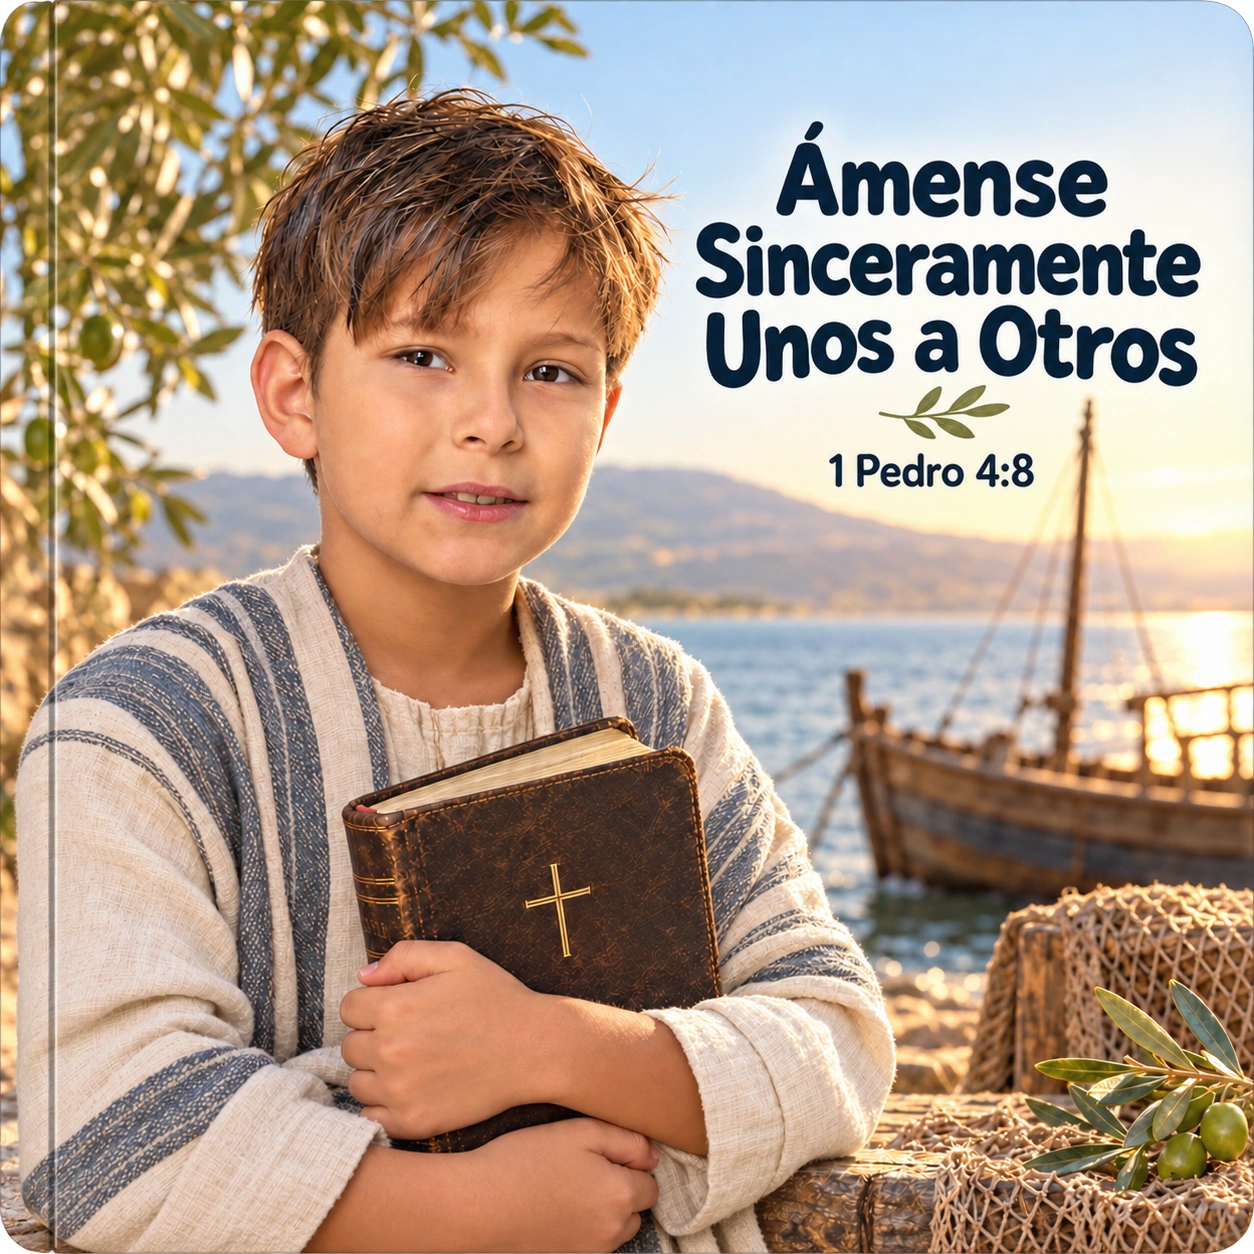
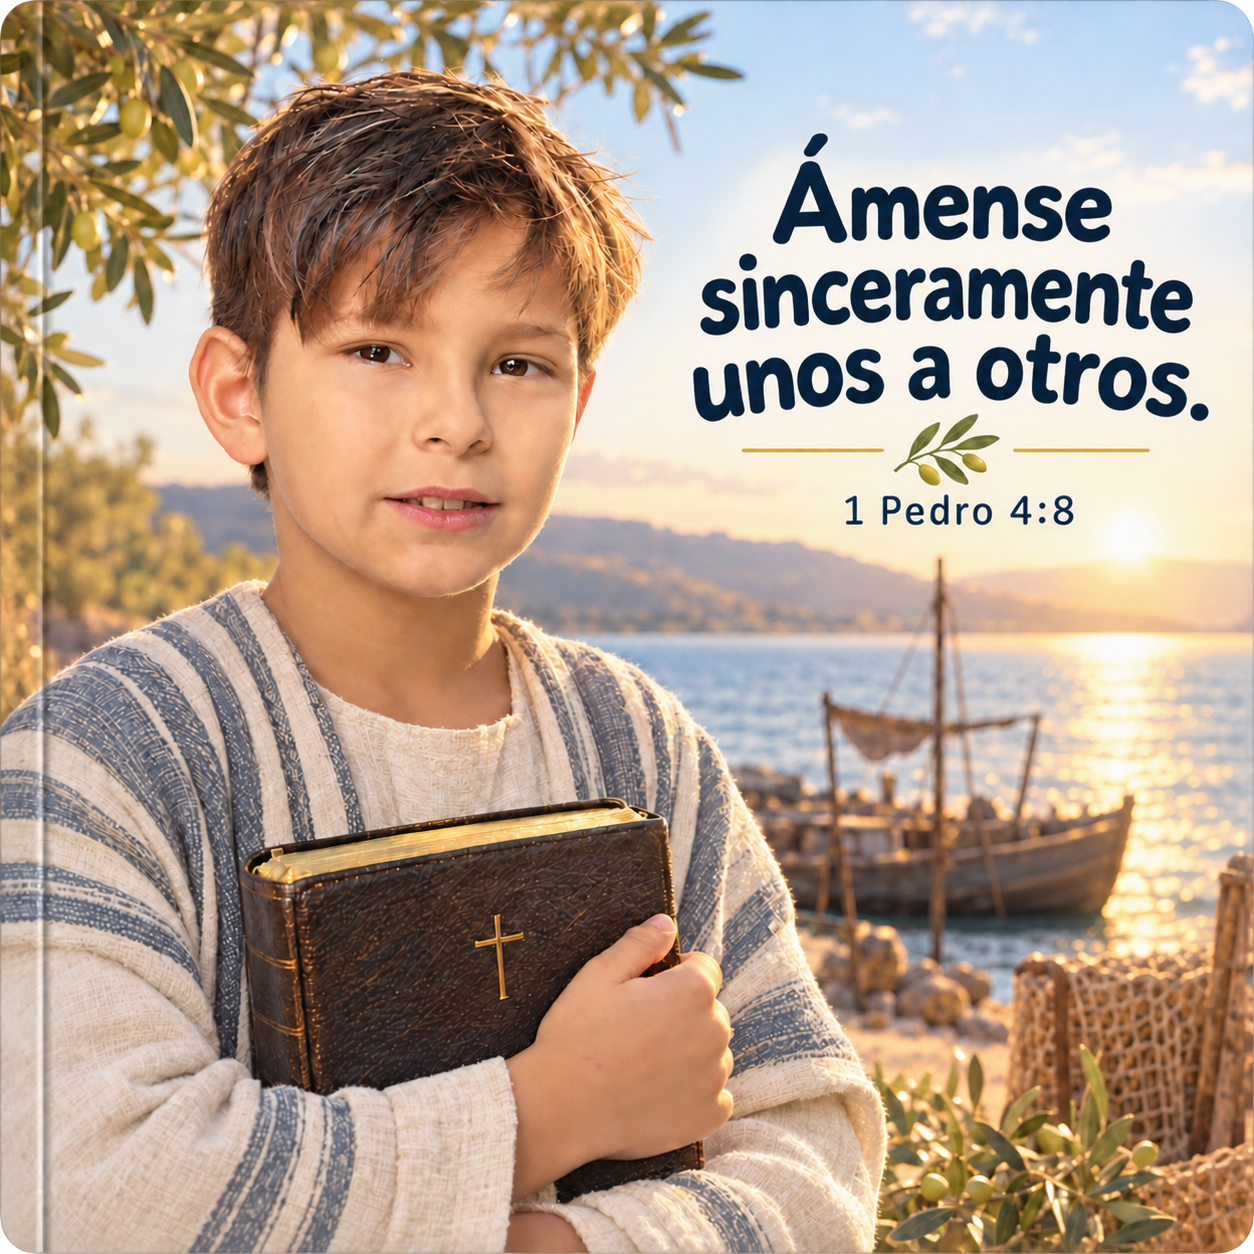
Align the 59-book catalog and localized preview scenes

diff --git a/apps/web/src/Landing.test.tsx b/apps/web/src/Landing.test.tsx
@@ -224,7 +224,7 @@ describe("Landing — catálogo", () => {
     expect(srcs.some((src) => src.includes(localizedExample("capa-nicolas-maefilho.jpg", "pt")))).toBe(false);
     expect(srcs.some((src) => src.includes(localizedExample("capa-matteo-aniversario.png", "pt")))).toBe(false);
     expect(srcs.some((src) => src.includes(localizedExample("capa-matteo-nas-nuvens.png", "pt")))).toBe(true);
-    expect(imgs).toHaveLength(53);
+    expect(imgs).toHaveLength(59);
     expect(srcs.some((src) => src.includes("capa-maos-motores"))).toBe(false);
     expect(srcs.some((src) => src.includes("capa-nanoaventuras"))).toBe(true);
     expect(srcs.some((src) => src.includes(localizedExample("capa-feliz-natal-familia.png", "pt")))).toBe(true);
@@ -252,8 +252,8 @@ describe("Landing — catálogo", () => {
     expect(within(cards[0]).getByText(/resistente e durável/i)).toBeInTheDocument();
     expect(within(cards[0]).getAllByRole("button", { name: "SOFT" })).toHaveLength(1);
     expect(within(cards[0]).getByText(/leve e flexível/i)).toBeInTheDocument();
-    expect(within(catalog).getAllByRole("button", { name: "HARD" })).toHaveLength(53);
-    expect(cards).toHaveLength(53);
+    expect(within(catalog).getAllByRole("button", { name: "HARD" })).toHaveLength(59);
+    expect(cards).toHaveLength(59);
     expect(cards.some((card) => card.textContent?.includes("Livro Teste"))).toBe(false);
     expect(within(catalog).getByText(/nano e suas aventuras/i)).toBeInTheDocument();
     expect(within(catalog).getByText(/feliz natal, família/i)).toBeInTheDocument();
@@ -272,7 +272,7 @@ describe("Landing — catálogo", () => {
     expect(within(cards[6]).getByText("Davi, o Craque do Brasil")).toBeInTheDocument();
     expect(within(cards[7]).getByText(/Martin, O Grande Goleiro/i)).toBeInTheDocument();
     expect(within(cards[8]).getByText(/Maria Jesus E A Disciplina No Hockey/i)).toBeInTheDocument();
-    expect(within(catalog).queryByText("Brilho Que Fascina, Alma De Bailarina")).not.toBeInTheDocument();
+    expect(within(catalog).queryByText("Brilho Que Fascina, Alma De Bailarina")).toBeInTheDocument();
     expect(within(cards[cards.length - 3]).getByText("Pequeno Construtor, Grande Empreendedor")).toBeInTheDocument();
     expect(within(cards[cards.length - 2]).getByText("Meu Herói Favorito, O Bombeiro")).toBeInTheDocument();
     expect(within(cards[cards.length - 1]).getByText("Meu Herói Favorito, O Policial")).toBeInTheDocument();
@@ -408,7 +408,7 @@ describe("Landing — catálogo", () => {
     await screen.findByTestId("landing-hero-title");
 
     const personalize = screen.getAllByTestId("landing-personalize");
-    expect(personalize).toHaveLength(53);
+    expect(personalize).toHaveLength(59);
     expect(screen.queryAllByTestId("catalog-model-unavailable")).toHaveLength(0);
     const first = studioTarget(personalize[personalize.length - 3].getAttribute("href"));
     expect(first).toContain("tema=adventure");

diff --git a/apps/web/src/Landing.tsx b/apps/web/src/Landing.tsx
@@ -693,14 +693,8 @@ const CATALOG_THEMES = [
   "casamento",
   "sport",
 ];
-/** Janela da vitrine. Era 15; desceu 1 quando o Bruno saiu do meio da lista. */
-const CATALOG_LIMIT = 14;
 /** Fora do site. O índice permanece no catálogo para não deslocar /livro dos demais. */
 const HIDDEN_BOOK_INDEXES = new Set([3, 4, 13, 16, 17, 32, 48, 50, 58, 61]);
-/** Índices fora do catálogo realista: capas em desenho e o aniversário da Ester. */
-const CATALOG_CARTOON_INDEXES = new Set([1, 2, 3, 4, 13]);
-/** Livros novos em português, depois do limite dos 15 primeiros. */
-const CATALOG_NEW_INDEXES = new Set([19, 20, 21, 22, 23, 24, 25, 26, 27, 28, 29, 30, 31, 34, 35, 36, 37, 38, 39, 40, 41, 42, 43, 44, 45, 46, 47, 49, 50, 51, 52, 53, 54, 55, 56, 57, 58, 59, 60, 61, 62, 63, 64, 65, 66, 67, 68, 33]);
 /** Vitrine em linhas de 3: família, fé e esportes; depois capas da mesma família de cor. */
 const HOME_CATALOG_ORDER = [
   21, 30, 22,
@@ -727,8 +721,6 @@ const HOME_CATALOG_ORDER = [
 ];
 /** Última linha da vitrine: construtor, bombeiro e policial (antes era a primeira). */
 const HOME_CATALOG_LAST = [25, 26, 27];
-/** Fora da vitrine da página inicial (continua no catálogo e no menu): Brilho Que Fascina, Alma De Bailarina. */
-const HOME_VITRINE_HIDDEN = new Set([53]);
 const CATALOG_LEAD = [25, 26, 27, 28, 29, 30, 21, 20, 22, 31, 0, 33, 37, 38, 39, 40, 41, 42, 43, 44, 45, 46, 47, 49, 51, 55, 52, 53, 54, 56, 57, 58];
 type CatalogCoverChoice = "soft" | "hard";
 type CatalogSizeChoice = "M" | "P";
@@ -2941,7 +2933,7 @@ export function Landing({ variant = "photo" }: { variant?: "photo" | "cartoon" }
         .map((c, i) => ({ c, i }))
         .filter(({ i }) => !HIDDEN_BOOK_INDEXES.has(i) && (variant === "cartoon"
           ? Boolean(CARTOON_COVER[i]) && Boolean(catalogCoverFile(i, "pt", "cartoon"))
-          : !HOME_VITRINE_HIDDEN.has(i) && (CATALOG_NEW_INDEXES.has(i) || i < CATALOG_LIMIT) && !CATALOG_CARTOON_INDEXES.has(i) && !isCartoonOnlyCover(i) && Boolean(coverForLang(i, "pt"))))
+          : Boolean(catalogCoverFile(i, "pt", "photo"))))
         .sort((a, b) => {
           const rank = (i: number) => {
             const order = HOME_CATALOG_ORDER;

diff --git a/apps/web/e2e/cartoon-expansion.spec.ts b/apps/web/e2e/cartoon-expansion.spec.ts
@@ -31,7 +31,10 @@ for (const lang of ["pt", "en", "es"]) {
         await expect(gallery.getByRole("tab")).toHaveCount(3);
         for (const [position, role] of ["capa", "pagina", "foto"].entries()) {
           await gallery.getByRole("tab").nth(position).click();
-          await expect(image).toHaveAttribute("src", `/exemplos/${position === 0 ? "covers/" : ""}${style}-${role}-${slug}-v1-${lang}.webp`);
+          const expectedFile = index === 38 && style === "cartoon" && role === "foto" && lang === "es"
+            ? "cartoon-foto-amem-se-parity-es.png"
+            : `${position === 0 ? "covers/" : ""}${style}-${role}-${slug}-v1-${lang}.webp`;
+          await expect(image).toHaveAttribute("src", `/exemplos/${expectedFile}`);
           await image.evaluate(async el => { await (el as HTMLImageElement).decode(); await new Promise(requestAnimationFrame); });
           await expect.poll(() => image.evaluate(el => (el as HTMLImageElement).naturalWidth)).toBeGreaterThan(0);
           const ratio = await image.evaluate(el => (el as HTMLImageElement).naturalWidth / (el as HTMLImageElement).naturalHeight);

diff --git a/apps/web/e2e/locale-parity.spec.ts b/apps/web/e2e/locale-parity.spec.ts
@@ -16,7 +16,7 @@ for (const path of ["/", "/cartoon"]) {
       steps: await page.locator("#passo img").count(),
     });
     const pt = await read();
-    expect(pt.books).toHaveLength(path === "/" ? 53 : 59);
+    expect(pt.books).toHaveLength(59);
     expect(pt.hero).toBe(path === "/" ? 17 : 4);
     for (const lang of ["pt", "en", "es"]) {
       await page.getByTestId(`landing-lang-${lang}`).click();
@@ -42,9 +42,9 @@ for (const lang of ["pt", "en", "es"]) for (const width of [390, 1440]) {
     };
     const realistic = await readBooks("/");
     const cartoon = await readBooks("/cartoon");
-    const shared = new Set(realistic.filter(book => cartoon.includes(book)));
-    expect(shared.size).toBeGreaterThan(20);
-    expect(cartoon.filter(book => shared.has(book))).toEqual(realistic.filter(book => shared.has(book)));
+    expect(realistic).toHaveLength(59);
+    expect(new Set(realistic).size).toBe(59);
+    expect(cartoon).toEqual(realistic);
     expect(await page.evaluate(() => document.documentElement.scrollWidth <= innerWidth)).toBe(true);
   });
 }

diff --git a/apps/web/e2e/cover-sizes.spec.ts b/apps/web/e2e/cover-sizes.spec.ts
@@ -1,6 +1,6 @@
 import { expect, test } from "@playwright/test";
 
-for (const [route, count] of [["/", 53], ["/cartoon", 59], ["/catalogo", 59]] as const) {
+for (const [route, count] of [["/", 59], ["/cartoon", 59], ["/catalogo", 59]] as const) {
 for (const lang of ["pt", "en", "es"]) {
   test(`visible cover artwork fills the frame in ${lang} on ${route}`, async ({ page }) => {
     await page.addInitScript(value => localStorage.setItem("lang", value), lang);
@@ -58,7 +58,7 @@ for (const lang of ["pt", "en", "es"]) {
 }
 
 for (const width of [390, 1280]) {
-for (const [route, count] of [["/", 53], ["/cartoon", 59], ["/catalogo", 59]] as const) {
+for (const [route, count] of [["/", 59], ["/cartoon", 59], ["/catalogo", 59]] as const) {
 for (const lang of ["pt", "en", "es"]) {
   test(`uniform covers and only 20 x 20 in ${lang} on ${route} at ${width}px`, async ({ page }) => {
     await page.setViewportSize({ width, height: 900 });

diff --git a/apps/web/e2e/catalog.spec.ts b/apps/web/e2e/catalog.spec.ts
@@ -29,7 +29,7 @@ test("ordem da vitrine", async ({ page }) => {
   const links = catalog.locator(".cat-book-link");
   await expect(links).toHaveCount(12);
   while (await page.getByTestId("catalog-more").count()) await page.getByTestId("catalog-more").click();
-  await expect(links).toHaveCount(53);
+  await expect(links).toHaveCount(59);
   await expect(catalog.locator('.cat-book-link[href="/livro/62"]')).toHaveCount(1);
   await expect(catalog.locator('.cat-book-link[href="/livro/63"]')).toHaveCount(1);
   expect((await links.evaluateAll((items) => items.map((item) => item.getAttribute("href")))).slice(0, 12)).toEqual([21, 30, 22, 20, 38, 47, 68, 0, 36, 28, 34, 57].map((id) => `/livro/${id}`));

diff --git a/apps/web/src/localizedExamples.test.tsx b/apps/web/src/localizedExamples.test.tsx
@@ -83,7 +83,7 @@ describe("approved PT images in all languages", () => {
         videos: container.querySelectorAll("#videos .vid-card").length,
       });
       const pt = read();
-      expect(pt.books).toHaveLength(variant === "photo" ? 53 : 59);
+      expect(pt.books).toHaveLength(59);
       expect(pt.hero).toHaveLength(variant === "photo" ? 102 : 24);
       for (const lang of ["en", "es"] as const) {
         fireEvent.click(screen.getByTestId(`landing-lang-${lang}`));
